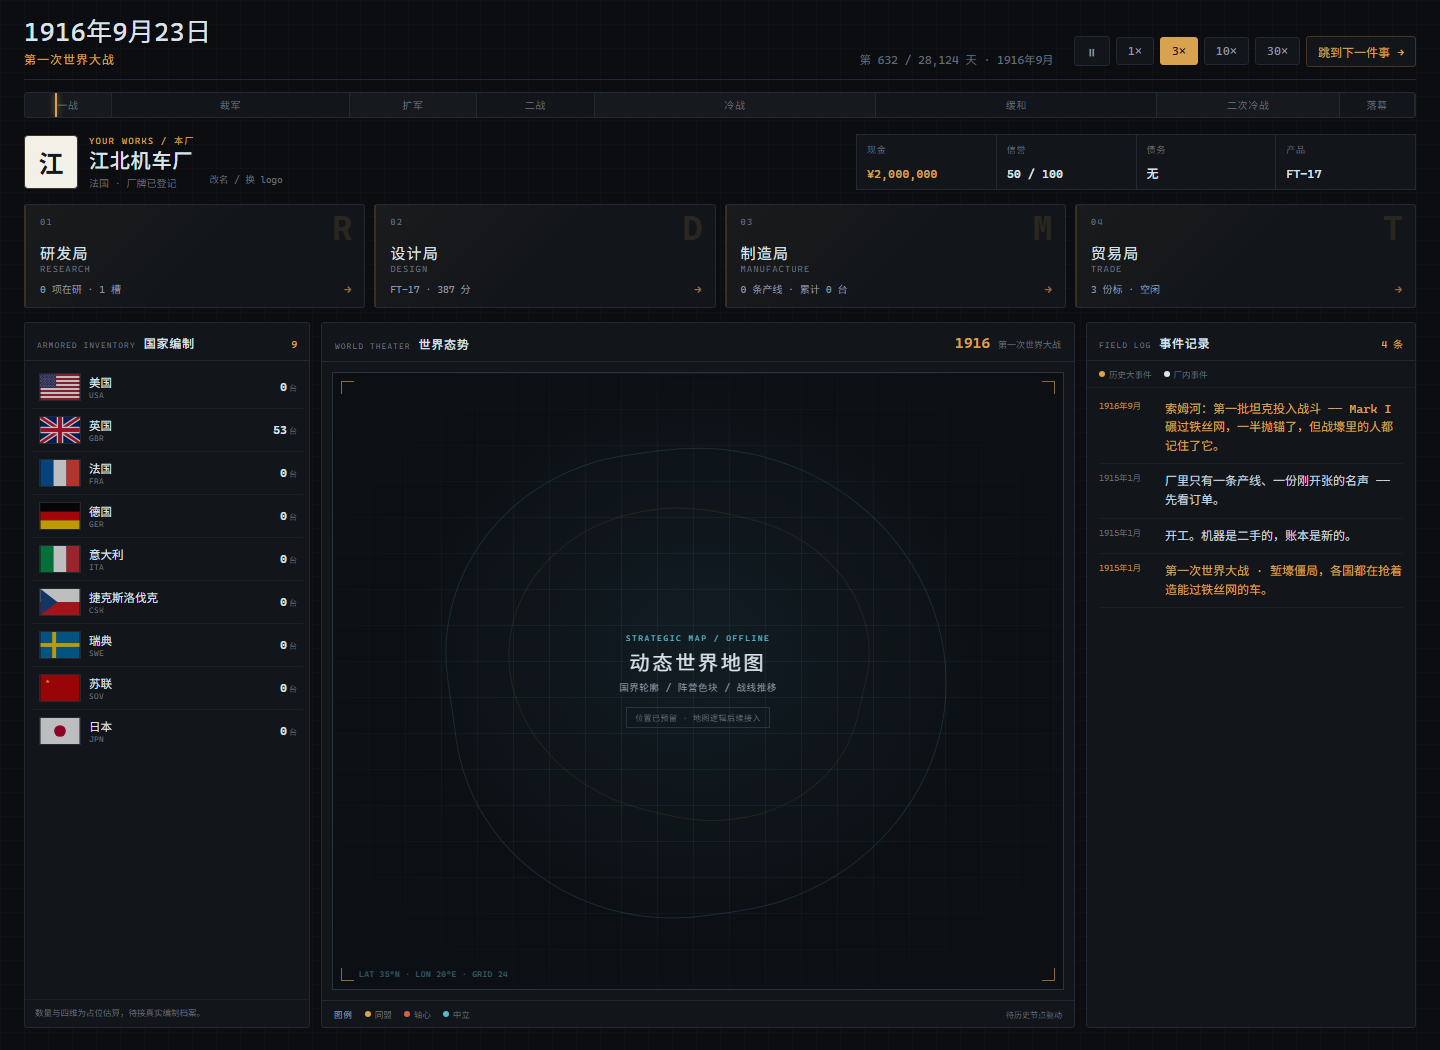
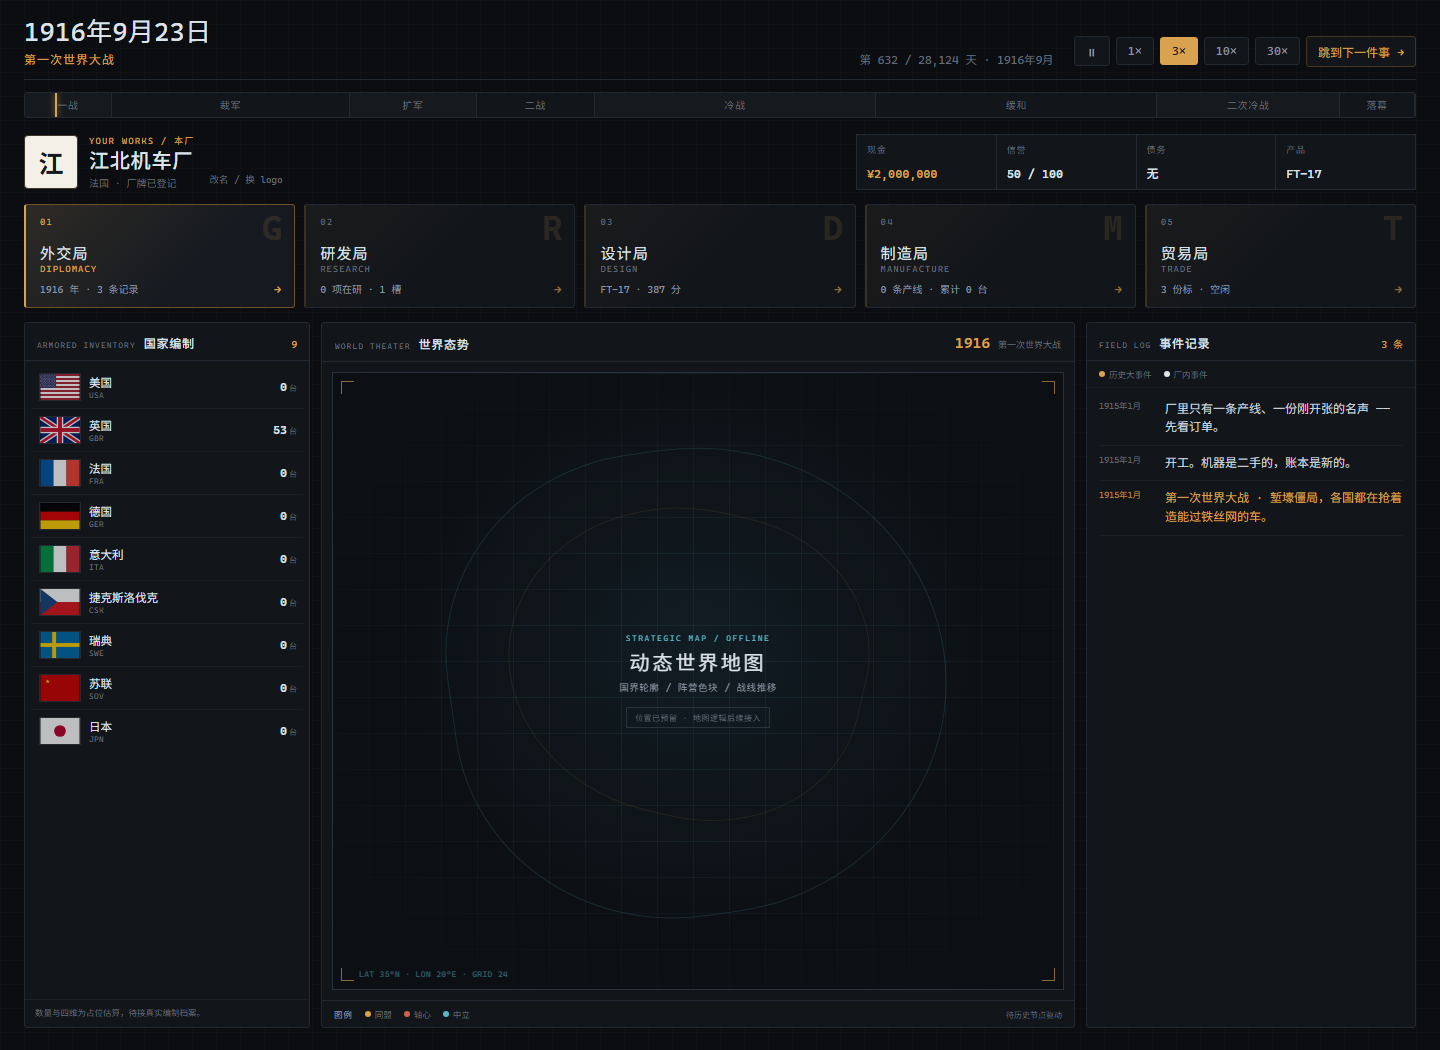
feat: 新增外交局并常驻五局导航

diff --git a/src/tank/game/shell.ts b/src/tank/game/shell.ts
@@ -117,8 +117,9 @@ export function mountGame(root: HTMLElement, opts: GameOptions): void {
   refreshOffers(state)
 
   let company: Company | null = readCompany(storage)
-  type DashboardView = 'home' | 'research' | 'manufacture' | 'trade'
-  let view: DashboardView = 'home'
+  type DashboardView = 'diplomacy' | 'research' | 'manufacture' | 'trade'
+  let view: DashboardView = 'diplomacy'
+  let activeBureau: DashboardView | 'design' = 'diplomacy'
   let selectedCountry: PlayableNationId | null = null
   let countrySig = ''
   let companySig = ''
@@ -302,10 +303,15 @@ export function mountGame(root: HTMLElement, opts: GameOptions): void {
     el('div', { class: 'dash-stats' }, dashStat('现金', dashCash), dashStat('信誉', dashRep), dashStat('债务', dashDebt), dashStat('产品', dashProduct)),
   )
 
+  const diplomacyMeta = el('span', { class: 'bureau-meta' })
   const researchMeta = el('span', { class: 'bureau-meta' })
   const designMeta = el('span', { class: 'bureau-meta' })
   const manufactureMeta = el('span', { class: 'bureau-meta' })
   const tradeMeta = el('span', { class: 'bureau-meta' })
+  const bureauButtons = new Map<string, HTMLButtonElement>()
+  function syncBureauActive(): void {
+    for (const [id, btn] of bureauButtons) btn.classList.toggle('active', id === activeBureau)
+  }
   const bureauCard = (
     id: string,
     index: string,
@@ -326,16 +332,19 @@ export function mountGame(root: HTMLElement, opts: GameOptions): void {
       el('span', { class: 'bureau-arrow', text: '→' }),
     )
     btn.addEventListener('click', onOpen)
+    bureauButtons.set(id, btn)
     return btn
   }
   const bureauGrid = el(
     'div',
     { class: 'bureau-grid' },
-    bureauCard('research', '01', '研发局', 'RESEARCH', 'R', researchMeta, () => setView('research')),
-    bureauCard('design', '02', '设计局', 'DESIGN', 'D', designMeta, openDesigner),
-    bureauCard('manufacture', '03', '制造局', 'MANUFACTURE', 'M', manufactureMeta, () => setView('manufacture')),
-    bureauCard('trade', '04', '贸易局', 'TRADE', 'T', tradeMeta, () => setView('trade')),
+    bureauCard('diplomacy', '01', '外交局', 'DIPLOMACY', 'G', diplomacyMeta, () => setView('diplomacy')),
+    bureauCard('research', '02', '研发局', 'RESEARCH', 'R', researchMeta, () => setView('research')),
+    bureauCard('design', '03', '设计局', 'DESIGN', 'D', designMeta, openDesigner),
+    bureauCard('manufacture', '04', '制造局', 'MANUFACTURE', 'M', manufactureMeta, () => setView('manufacture')),
+    bureauCard('trade', '05', '贸易局', 'TRADE', 'T', tradeMeta, () => setView('trade')),
   )
+  syncBureauActive()
 
   const countryList = el('div', { class: 'country-scroll' })
   const countryColumn = el(
@@ -417,14 +426,14 @@ export function mountGame(root: HTMLElement, opts: GameOptions): void {
   const dashboard = el(
     'section',
     { class: 'dashboard' },
-    dashTop,
-    bureauGrid,
     el('div', { class: 'dashboard-grid' }, countryColumn, mapPanel, eventColumn),
   )
 
+  const BUREAU_PAGE_INDEX: Record<string, string> = { research: '02', manufacture: '04', trade: '05' }
+
   function bureauPage(id: string, title: string, en: string, sub: string, ...content: Node[]): HTMLElement {
-    const back = el('button', { class: 'bureau-back', type: 'button', text: '← 返回主界面' })
-    back.addEventListener('click', () => setView('home'))
+    const back = el('button', { class: 'bureau-back', type: 'button', text: '← 外交局' })
+    back.addEventListener('click', () => setView('diplomacy'))
     return el(
       'section',
       { class: `bureau-page bureau-page-${id} hidden`, 'data-view': id },
@@ -439,7 +448,7 @@ export function mountGame(root: HTMLElement, opts: GameOptions): void {
           el('h1', { text: title }),
           el('p', { text: sub }),
         ),
-        el('span', { class: 'bureau-head-index', text: id === 'research' ? '01' : id === 'manufacture' ? '03' : '04' }),
+        el('span', { class: 'bureau-head-index', text: BUREAU_PAGE_INDEX[id] ?? '' }),
       ),
       el('div', { class: 'bureau-body' }, ...content),
     )
@@ -496,8 +505,9 @@ export function mountGame(root: HTMLElement, opts: GameOptions): void {
     ),
   )
 
+  const bureauHeader = el('div', { class: 'bureau-header' }, dashTop, bureauGrid)
   const pageHost = el('div', { class: 'page-host' }, dashboard, researchPage, manufacturePage, tradePage)
-  const stage = el('main', { class: 'stage' }, pageHost)
+  const stage = el('main', { class: 'stage' }, bureauHeader, pageHost)
 
   // ── 首次建厂登记：厂名 + 白板手绘 logo ─────────────────────
 
@@ -737,11 +747,13 @@ export function mountGame(root: HTMLElement, opts: GameOptions): void {
 
   function setView(next: DashboardView): void {
     view = next
-    dashboard.classList.toggle('hidden', view !== 'home')
+    activeBureau = next
+    syncBureauActive()
+    dashboard.classList.toggle('hidden', view !== 'diplomacy')
     researchPage.classList.toggle('hidden', view !== 'research')
     manufacturePage.classList.toggle('hidden', view !== 'manufacture')
     tradePage.classList.toggle('hidden', view !== 'trade')
-    if (view === 'home') renderDashboard()
+    if (view === 'diplomacy') renderDashboard()
   }
 
   function renderCompany(): void {
@@ -854,6 +866,7 @@ export function mountGame(root: HTMLElement, opts: GameOptions): void {
     dashProduct.textContent = state.design.name
 
     const projects = state.research.projects.length
+    diplomacyMeta.textContent = `${dateOf(state.day).year} 年 · ${state.log.length} 条记录`
     researchMeta.textContent = `${projects} 项在研 · ${slotsOf(state.research)} 槽`
     try {
       designMeta.textContent = `${state.design.name} · ${buildTank(state.design).score.total} 分`
@@ -932,6 +945,8 @@ export function mountGame(root: HTMLElement, opts: GameOptions): void {
       showFlash({ d: state.day, k: 'note', t: '浏览器不允许写本地存储，设计局打不开。' })
       return
     }
+    activeBureau = 'design'
+    syncBureauActive()
 
     const closeBtn = el('button', { class: 'design-close', type: 'button', text: '× 关闭' })
     const frame = el('iframe', {
@@ -956,6 +971,8 @@ export function mountGame(root: HTMLElement, opts: GameOptions): void {
       if (onMessage) window.removeEventListener('message', onMessage)
       overlay.remove()
       clearDraft()
+      activeBureau = view
+      syncBureauActive()
     }
     closeBtn.addEventListener('click', close)
     overlay.addEventListener('click', (e) => {
@@ -1718,7 +1735,7 @@ export function mountGame(root: HTMLElement, opts: GameOptions): void {
   render()
   publishTech()
   if (!company && opts.founder !== false) openFounder(false)
-  if (viewParam === 'research' || viewParam === 'manufacture' || viewParam === 'trade') setView(viewParam)
+  if (viewParam === 'diplomacy' || viewParam === 'research' || viewParam === 'manufacture' || viewParam === 'trade') setView(viewParam)
   if (new URLSearchParams(location.search).get('design') === '1') window.setTimeout(openDesigner, 80)
   requestAnimationFrame(rafLoop)
 

diff --git a/tools/dashboard-smoke.ts b/tools/dashboard-smoke.ts
@@ -1,5 +1,5 @@
 /**
- * 主界面冒烟测试：四局入口、9 国编制、地图占位、事件记录、首次建厂登记。
+ * 主界面冒烟测试：五局入口、9 国编制、地图占位、事件记录、首次建厂登记。
  * 时钟/经济/任务由别的台验；这里只验「新主界面装上去之后，线还接着」。
  */
 
@@ -58,11 +58,13 @@ doc.body.appendChild(root as never)
 mountGame(root, { storage: store, seed: () => 1, founder: false })
 
 check('主界面停在 1916年9月15日', txt(root, '.date') === '1916年9月15日', txt(root, '.date'))
-check('四个局入口都在', all(root, '.bureau-card').length === 4, `实际 ${all(root, '.bureau-card').length}`)
+check('五个局入口都在', all(root, '.bureau-card').length === 5, `实际 ${all(root, '.bureau-card').length}`)
 check(
-  '四卡顺序是研发/设计/制造/贸易',
-  all(root, '.bureau-card').map((c) => c.getAttribute('data-bureau')).join(',') === 'research,design,manufacture,trade',
+  '五卡顺序是外交/研发/设计/制造/贸易',
+  all(root, '.bureau-card').map((c) => c.getAttribute('data-bureau')).join(',') === 'diplomacy,research,design,manufacture,trade',
 )
+check('进入游戏默认外交局', q(root, '.bureau-diplomacy')?.classList.contains('active') === true)
+check('默认显示外交局内容', q(root, '.dashboard')?.classList.contains('hidden') === false)
 check('贸易局已改名', txt(root, '.bureau-trade .bureau-title') === '贸易局', txt(root, '.bureau-trade .bureau-title'))
 check('没有旧游说局卡片', !root.textContent!.includes('游说局'))
 check('地图占位框在', q(root, '.map-frame') !== null)
@@ -91,13 +93,16 @@ click(root, '.country-card[data-country="fra"]')
 check('切到法国后英国详情收起', q(root, '.country-card[data-country="gbr"]')?.classList.contains('open') === false)
 check('1916 法国显示尚未列装', root.textContent!.includes('尚未列装坦克'))
 
-// 四局页面切换
+// 五局页面切换：卡片一直在，只换下面内容
 click(root, '.bureau-research')
 check('研发局页打开', q(root, '.bureau-page-research')?.classList.contains('hidden') === false)
-check('主界面隐藏', q(root, '.dashboard')?.classList.contains('hidden') === true)
+check('外交局内容隐藏', q(root, '.dashboard')?.classList.contains('hidden') === true)
+check('研发页打开时五卡仍在', q(root, '.bureau-grid')?.classList.contains('hidden') === false)
+check('研发卡高亮', q(root, '.bureau-research')?.classList.contains('active') === true)
 check('研发页有研究纪律侧栏', txt(root, '.bureau-page-research').includes('研究纪律'))
 click(root, '.bureau-page-research .bureau-back')
-check('从研发局返回主界面', q(root, '.dashboard')?.classList.contains('hidden') === false)
+check('从研发局返回外交局', q(root, '.dashboard')?.classList.contains('hidden') === false)
+check('外交卡恢复高亮', q(root, '.bureau-diplomacy')?.classList.contains('active') === true)
 
 click(root, '.bureau-manufacture')
 check('制造局页打开', q(root, '.bureau-page-manufacture')?.classList.contains('hidden') === false)

diff --git a/src/tank/game/style.css b/src/tank/game/style.css
@@ -954,9 +954,19 @@ body {
 .stage {
   display: flex;
   flex: 1;
+  flex-direction: column;
+  gap: 14px;
   min-width: 0;
   min-height: 0;
   margin-top: 16px;
+}
+
+.bureau-header {
+  display: flex;
+  flex: 0 0 auto;
+  flex-direction: column;
+  gap: 14px;
+  min-width: 0;
 }
 
 .page-host {
@@ -1107,7 +1117,7 @@ body {
 
 .bureau-grid {
   display: grid;
-  grid-template-columns: repeat(4, minmax(0, 1fr));
+  grid-template-columns: repeat(5, minmax(0, 1fr));
   gap: 9px;
 }
 
@@ -1134,6 +1144,21 @@ body {
   border-color: #5a462a;
   background: linear-gradient(135deg, rgba(217, 162, 78, 0.1), transparent 60%), var(--panel-2);
   transform: translateY(-1px);
+}
+
+.bureau-card.active {
+  border-color: #6d522c;
+  border-left-color: var(--amber);
+  background: linear-gradient(135deg, rgba(217, 162, 78, 0.12), transparent 62%), var(--panel-2);
+}
+
+.bureau-card.active .bureau-index,
+.bureau-card.active .bureau-en {
+  color: var(--amber);
+}
+
+.bureau-card.active .bureau-arrow {
+  opacity: 1;
 }
 
 .bureau-index {
@@ -2071,7 +2096,7 @@ body {
 
 @media (max-width: 1060px) {
   .bureau-grid {
-    grid-template-columns: repeat(2, minmax(0, 1fr));
+    grid-template-columns: repeat(3, minmax(0, 1fr));
   }
   .dashboard-grid {
     grid-template-columns: 250px minmax(0, 1fr);
@@ -2127,7 +2152,7 @@ body {
 
 @media (max-width: 620px) {
   .bureau-grid {
-    grid-template-columns: minmax(0, 1fr);
+    grid-template-columns: repeat(2, minmax(0, 1fr));
   }
   .bureau-card {
     min-height: 78px;
@@ -2140,5 +2165,11 @@ body {
   }
   .founder-card {
     padding: 18px 16px 15px;
+  }
+}
+
+@media (max-width: 480px) {
+  .bureau-grid {
+    grid-template-columns: minmax(0, 1fr);
   }
 }

diff --git a/docs/DESIGN.md b/docs/DESIGN.md
@@ -25,7 +25,7 @@
 
 游戏里没有「关卡」，只有一条真实的日历：1915-01-01 到 1991-12-31，**28,124 天**。时间连续流逝（1×/3×/10×/30× 天每秒），你可以随时暂停、快进、跳到下一件事。战争不会让时钟变慢，只会让你的订单变多、对手消耗变快。
 
-四个局，一条闭环：
+五个局，一条闭环：外交局看世界，研发 → 设计 → 制造 → 贸易 → 钱。
 
 ```
 研发局 ──► 设计局 ──► 制造局 ──► 贸易局 ──┐
@@ -163,10 +163,11 @@ M1 已经把这条件跑通了一半：**设计局的产品 → 制造局产线 
   └─ 1991-12-31：关厂，出总表（尚未实现）
 ```
 
-### 3.2 四个局的分工
+### 3.2 五个局的分工
 
 | 局 | 玩家在做什么 | 输入 | 输出 | 决策频率 |
 |---|---|---|---|---|
+| **外交局** | 看 9 国编制、世界态势、历史/厂内事件 | 年份、各国编制、事件记录 | 「现在该往哪卖」的判断 | 随时 |
 | **研发局** | 决定「接下来半年这 3 个槽干什么」 | 钱、槽位、速度、时代强度 | 可用的部件与技术系数 | 每季度几次 |
 | **设计局** | 拖六个槽位，找那个「刚好卖得掉」的配置 | 已解锁的部件、客户的门槛 | 型号、四维、单价成本 | 每次接单前 |
 | **制造局** | 排产、囤料、决定开几条线、要不要换型 | 型号的工时与材料定额 | 成品库存 | 每月几次 |
@@ -1536,7 +1537,7 @@ v1–v6 老存档可以读：产品默认 FT-17，没有产线与订单，研发
 |---|---|---|---|---|
 | 主菜单 | `/` | `index.html` / `src/tank/menu-entry.ts` | 加载游戏、新游戏、设置、退出；左侧 logo，右侧背景预留 | ✅ 入口页 |
 | 国家选择 | `/nations.html` | `src/tank/nation-entry.ts` | 9 张国家卡：国旗、国名、坦克发展历程；选中后开始新局 | ✅ 新游戏流程 |
-| 游戏壳 | `/game.html` | `src/tank/game/shell.ts` | 主界面：时钟/历史线、四局入口、9 国编制、地图占位、事件记录、建厂登记 | ✅ 可玩闭环 |
+| 游戏壳 | `/game.html` | `src/tank/game/shell.ts` | 主界面：时钟/历史线、五局入口、9 国编制、地图占位、事件记录、建厂登记 | ✅ 可玩闭环 |
 | 设计局（预览） | `/tank.html` | `src/tank/main.ts` | 拼车、看四维、看代价、按科技过滤；游戏内用 `?embedded=1` | ✅ 预览 / 调试 |
 | 研发局 | `/research.html` | `src/tank/research-main.ts` | 科技树、超前/追赶、落后年数 | ✅ 可用 |
 | 制造局 | `/manufacture.html` | `src/tank/manufacture-main.ts` | 产线、仓库、学习曲线 | ✅ 独立试算页（主循环同一模型） |
@@ -1545,11 +1546,11 @@ v1–v6 老存档可以读：产品默认 FT-17，没有产线与订单，研发
 
 **国家选择页**：`/nations.html` 列首批 9 国（美、英、法、德、意、捷克斯洛伐克、瑞典、苏联、日本）。每张卡由 `data/nation-profiles.ts` 的 `flagSvg()` 内联 SVG 国旗、国名/英文名/年份、`tagline`、`history`、代表车 `tanks` 组成；卡是 `button.nation-card[data-id][aria-pressed]`，未选时底部「开始游戏」为灰、禁用，选中后卡片琥珀高亮并显示「已选择」，按钮才亮起。开始游戏时清 `RUN_KEYS`（v7 + legacy 存档、科技快照、设计草稿），导航到 `./game.html?day=0&home=<id>`；主循环从 URL 读 `home`，校验后传给 `createGame(seed, home)`，开工后锁定国籍。窄屏 3→2→1 列，操作条 sticky 在底部。
 
-**游戏主界面**：顶栏保留日期、时代、暂停/速度、报告、跳到下一件事；下面是 8 段历史线。主体 `.dashboard` 分四层：
+**游戏主界面**：顶栏保留日期、时代、暂停/速度、报告、跳到下一件事；下面是 8 段历史线。`.stage` 分两段：上方 `.bureau-header` 是常驻壳（厂牌/读数 + 五个局卡），下方 `.page-host` 只换当前局的内容；进入游戏默认是**外交局**。
 
 1. `.dash-top`：左侧厂牌（厂名、logo 或首字、国家/登记状态、改名入口），右侧现金/信誉/债务/产品四项读数。
-2. `.bureau-grid`：研发、设计、制造、贸易四张 `.bureau-card`。研发/制造/贸易用 `setView('research'|'manufacture'|'trade')` 切到工作页，设计仍打开原 iframe 覆盖层；页面切换只隐藏/显示节点，不重建，避免丢事件与重复渲染。
-3. `.dashboard-grid` 三列：左 `.country-column` 是 9 国编制卡（`data/world.ts` 的 `worldAt(id, year)`），点卡展开 `.country-detail`，列出型号、四维、总分、数量；列表 `overflow-y:auto`，年份变化时重建。中 `.map-column` 是 `.map-frame` 地图占位（扫描线、网格、图例、坐标），国界/阵营色块/战线后续接。右 `.event-column` 是事件记录，复用 `state.log`，`.k-era/.k-news` 琥珀色、`.k-note` 白色。
+2. `.bureau-grid`：外交、研发、设计、制造、贸易五张 `.bureau-card`，当前页有 `.active` 高亮。外交/研发/制造/贸易用 `setView('diplomacy'|'research'|'manufacture'|'trade')` 切页；设计仍打开原 iframe 覆盖层（打开时设计卡高亮，关闭恢复原页）。切页只隐藏/显示 `.page-host` 里的节点，不重建，所以卡片和顶部读数一直在。
+3. `.dashboard` 是外交局内容，三列：左 `.country-column` 是 9 国编制卡（`data/world.ts` 的 `worldAt(id, year)`），点卡展开 `.country-detail`，列出型号、四维、总分、数量；列表 `overflow-y:auto`，年份变化时重建。中 `.map-column` 是 `.map-frame` 地图占位（扫描线、网格、图例、坐标），国界/阵营色块/战线后续接。右 `.event-column` 是事件记录，复用 `state.log`，`.k-era/.k-news` 琥珀色、`.k-note` 白色。
 4. 首次进入弹 `.founder-overlay`：厂名输入 + 560×260 canvas 白板，`pointerdown/move/up` 手绘，`toDataURL('image/png')` 保存；厂牌存 `tank-works.company.v1`（`src/platform/company.ts`），登记期间 `step()` 冻结时钟；改名/换 logo 从 `.company-edit` 再开，取消保留原厂牌。
 
 地图和事件文案是**有意留的下一步**：地图只有占位框，国家编制是占位估算，事件记录只接现有 29 条快讯；这些边界写在 STATUS 附录 O，不在界面里假装已经做完。
@@ -1561,7 +1562,7 @@ v1–v6 老存档可以读：产品默认 FT-17，没有产线与订单，研发
 ```
 /game.html?design=1           直接打开游戏内设计覆盖层
 /game.html?day=0&home=ger     指定开局国家（跳过国家选择页）
-/game.html?view=trade         直接打开贸易局页（research / manufacture 同理）
+/game.html?view=trade         直接打开贸易局页（diplomacy / research / manufacture 同理；外交局是默认）
 /research.html?year=1960      把「今天」拨到 1960
 /manufacture.html?days=200    开局直接推进 200 天
 /game.html?day=9009           从某一天开局（1939-09-01）
@@ -1631,7 +1632,7 @@ tank-works/
 │  │  │  ├─ bureau.ts + style.css          设计局
 │  │  │  ├─ research.ts + research.css     研发局
 │  │  │  └─ manufacture.ts + factory.css   制造局
-│  │  ├─ game/shell.ts + style.css         游戏主界面 / 四局页 / 建厂登记
+│  │  ├─ game/shell.ts + style.css         游戏主界面 / 五局页 / 建厂登记
 │  │  ├─ menu-main.ts + menu-entry.ts + menu.css   主菜单
 │  │  └─ nation-main.ts + nation-entry.ts + nation.css  国家选择页
 │  └─ platform/
@@ -1833,7 +1834,7 @@ npm install           # 首次
 npm run dev           # 开发服务器 127.0.0.1:5273，六个页面
 npm run build         # 构建到 dist/（六个入口，相对路径）
 npm run preview       # 预览打包结果
-npm run check         # 全部检查：类型 + 校准 + 节奏 + 16 个检查台（538 项断言）
+npm run check         # 全部检查：类型 + 校准 + 节奏 + 13 个检查台（543 项断言）
 
 npm run design        # 19 辆历史车校准表
 npm run ballistics    # 弹道两轴表
@@ -1850,7 +1851,7 @@ npm run smoke:game    # 游戏壳界面 104 项
 npm run menu          # 主菜单界面 36 项
 npm run nation        # 国家选择页 34 项
 npm run world         # 世界编制 16 项
-npm run dashboard     # 游戏主界面 41 项
+npm run dashboard     # 游戏主界面 46 项
 npm run smoke:research # 研发局界面 27 项
 npm run smoke:mf      # 制造局界面 21 项
 
